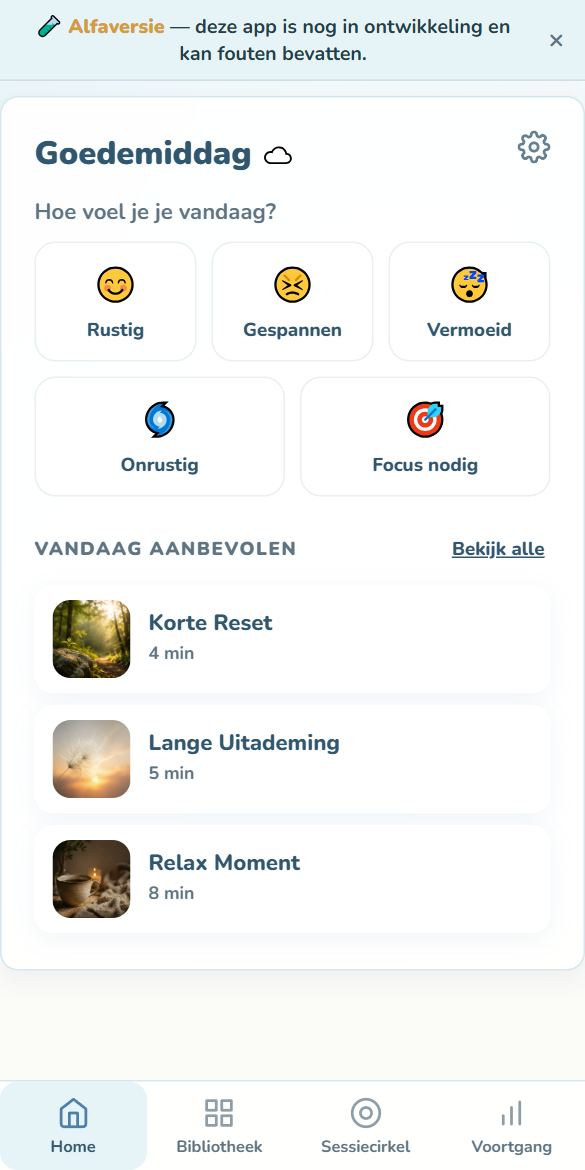
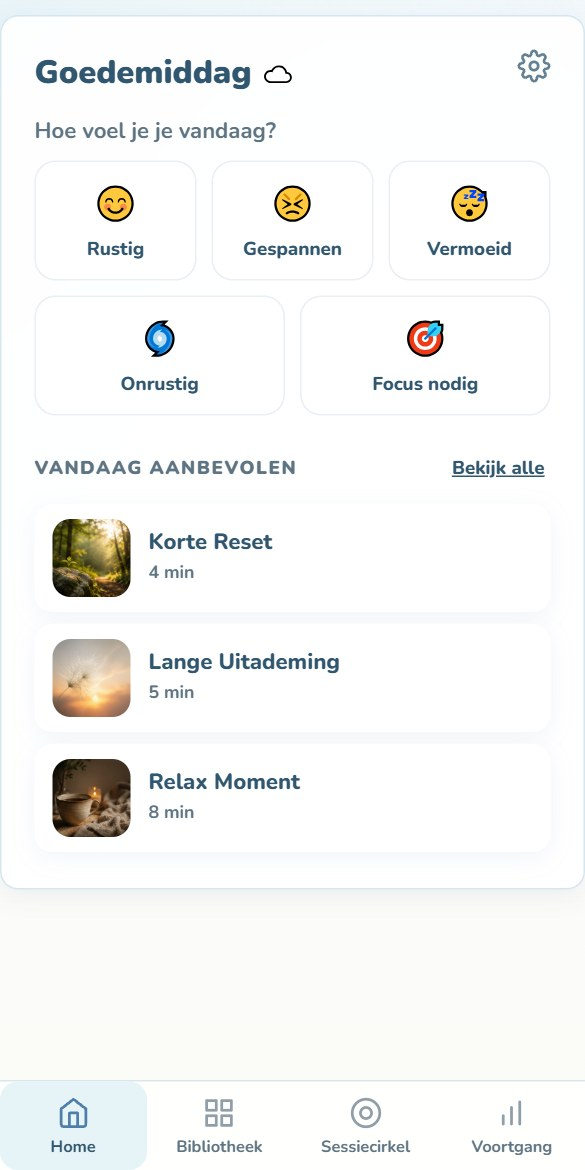
Schermafbeelding Restavia vernieuwd zonder alfa-melding

diff --git a/index.html b/index.html
@@ -102,7 +102,7 @@
             <span class="cta" aria-hidden="true">{{ t.restavia.knop | escape }} <span class="arr">→</span></span>
             <a class="more" href="/restavia/">{{ t.restavia.meer | escape }} <span aria-hidden="true">→</span></a>
           </div>
-          <figure class="phone"><img src="img/restavia.jpg" width="585" height="1170" loading="lazy" decoding="async" alt="Schermafbeelding van Restavia op een telefoon: het beginscherm met de vraag hoe je je vandaag voelt."></figure>
+          <figure class="phone"><img src="img/restavia.jpg?v=2" width="585" height="1170" loading="lazy" decoding="async" alt="Schermafbeelding van Restavia op een telefoon: het beginscherm met de vraag hoe je je vandaag voelt."></figure>
         </article>
       </div>
 
